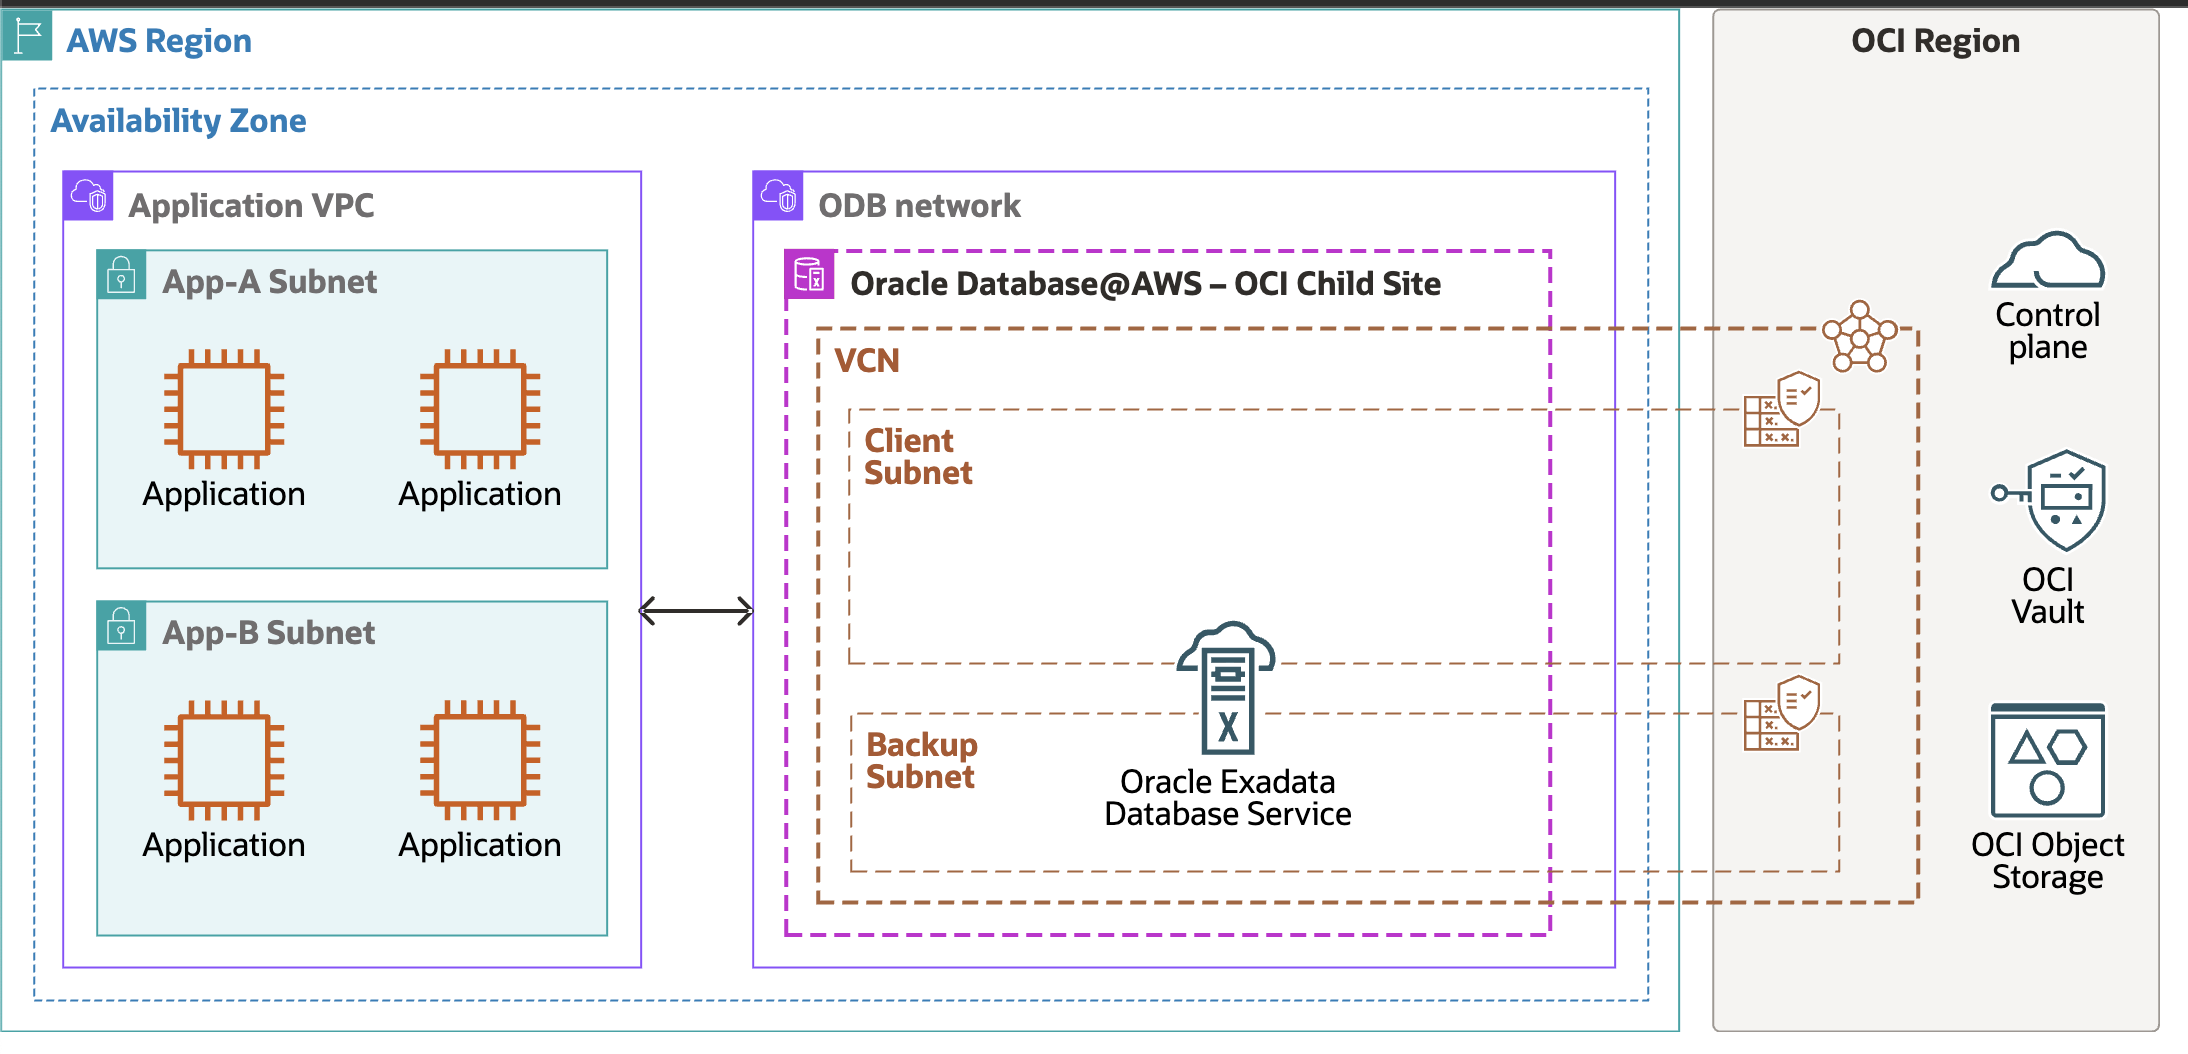
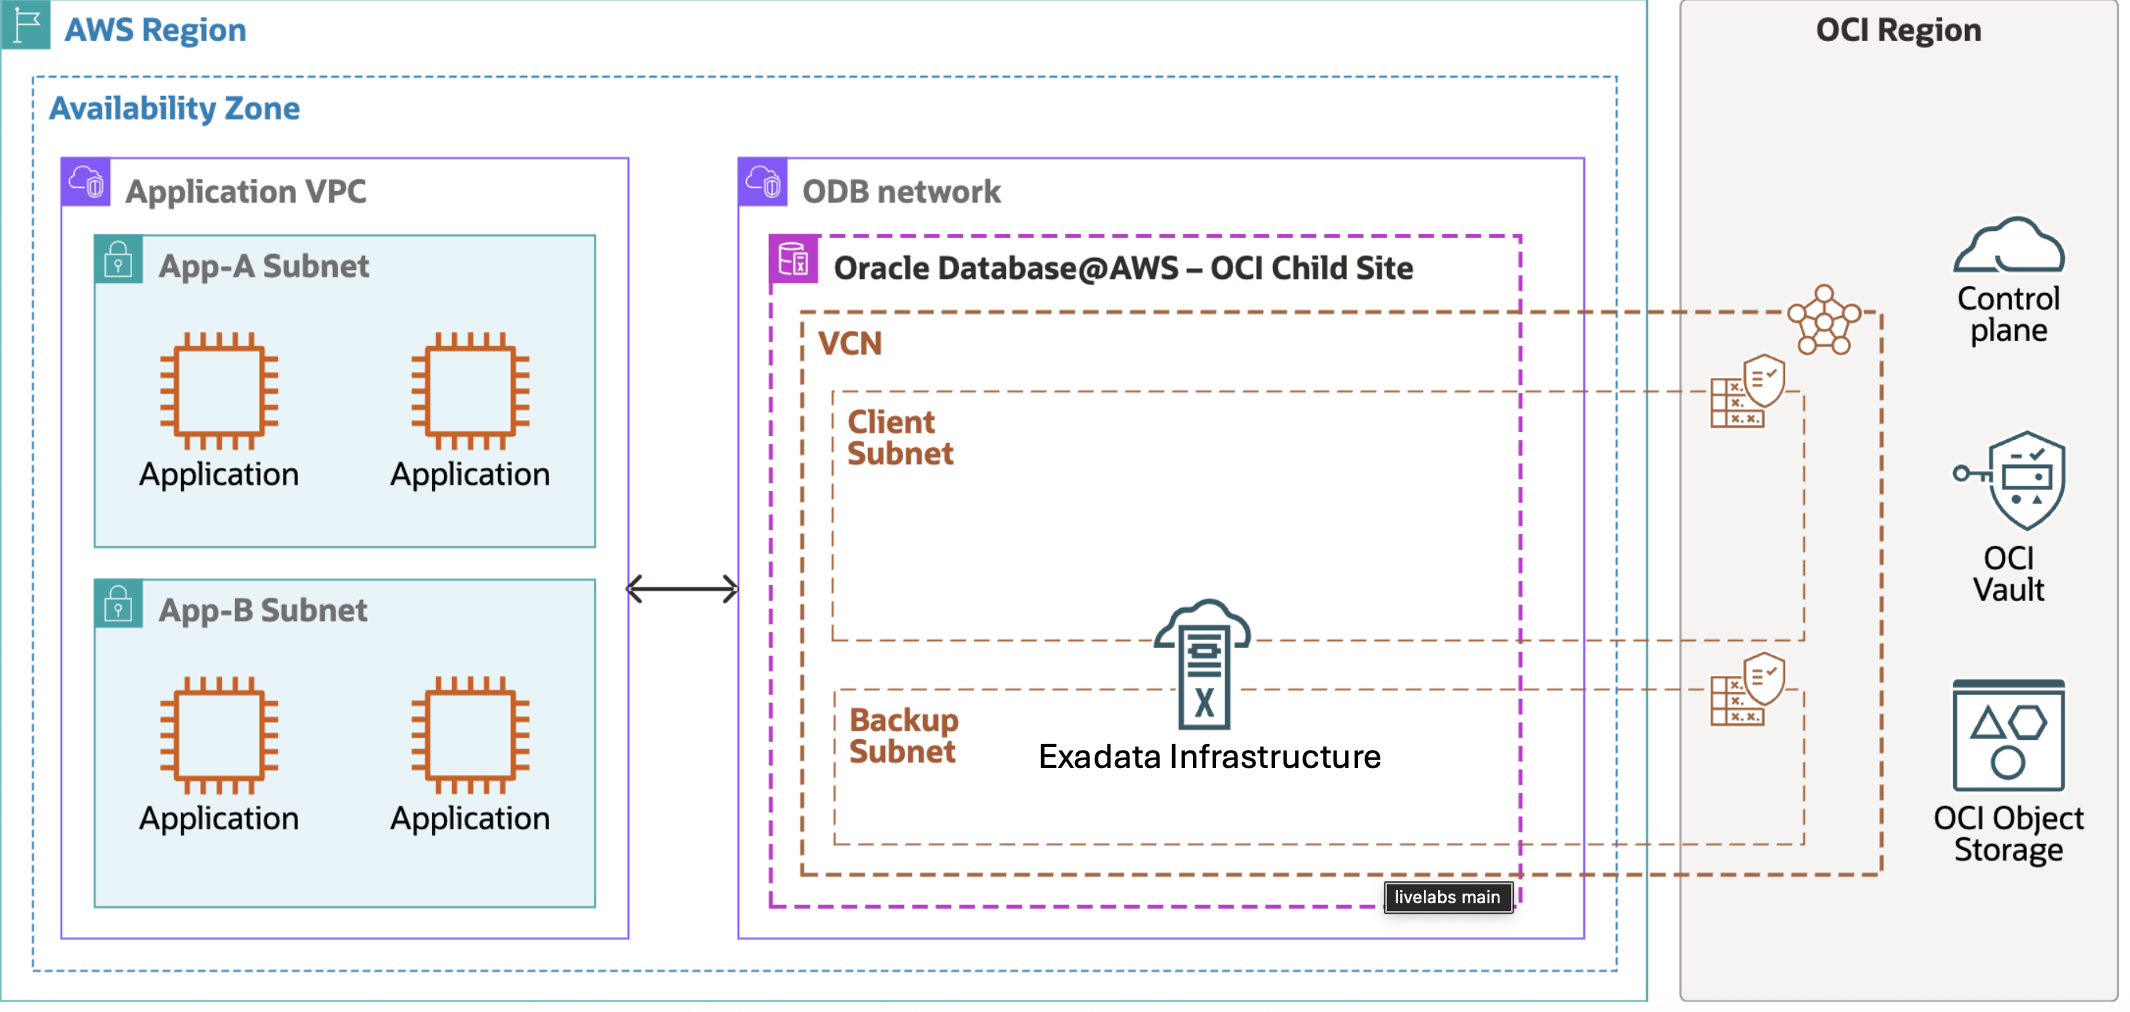
Changes to ODB network Lab
Changes to ODB network Lab

diff --git a/network-pre-requisites/create-odb-network.md b/network-pre-requisites/create-odb-network.md
@@ -22,7 +22,7 @@ You can find more information about onboarding [here](https://docs.aws.amazon.co
     ![This image shows the result of performing the above step.](./images/architecture.png " ")
 
 
-Oracle Exadata Database Service runs within an OCI-managed child site inside the ODB network, which is dedicated to Oracle Database@AWS. Customer applications hosted in an AWS application VPC connect to Oracle Database@AWS using the supported database connection methods.
+Oracle Exadata Infrastructure runs within an OCI-managed child site inside the ODB network (a specialized AWS VPC), which is dedicated to Oracle Database@AWS. The Oracle Exadata dedicated infrastructure can simultaneously host VM Clusters for both Exadata Database Service and Autonomous Database Service.  Customer applications hosted in an AWS application VPC connect to Oracle Database@AWS using supported database connection methods. This tutorial will focus on Autonomous Database Service.
 
 
 Estimated Time: 15 minutes
@@ -67,7 +67,7 @@ As a database user, network architect, or application developer:
 
     ![This image shows the result of performing the above step.](./images/dns_configuration.png " ")
 
-- Optionally, you can configure network access for Amazon S3 (Database backups) and Zero-ETL and click on 'Create ODB network'.
+- Optionally, you can configure network access for Amazon S3 (Database backups) and Zero-ETL and click on 'Create ODB network'. NOTE: Oracle Database@AWS preconfigures your network access for Oracle managed automatic backups to Amazon S3.
 
     ![This image shows the result of performing the above step.](./images/service_integration.png " ")
 
